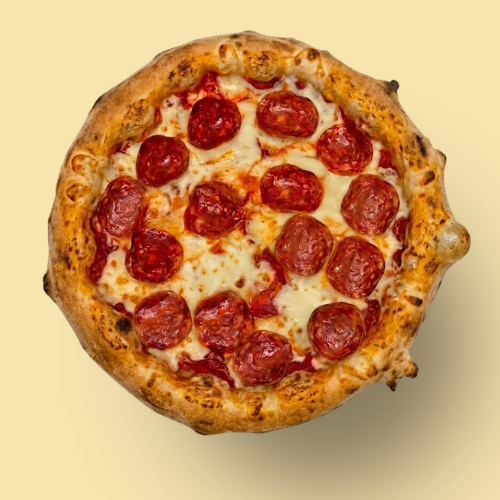
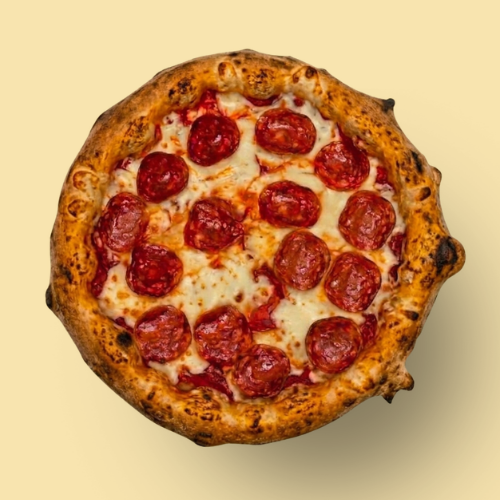
modifico fotos

diff --git a/index.html b/index.html
@@ -74,20 +74,20 @@
       </div>
 
       <div class="pizza-card">
-        <div class="card-img"><img src="./img/pizzas/margamejor.png" alt="Pizza Margherita" draggable="false"></div>
-        <div class="card-body">
-          <div class="card-top"><h4 class="card-name">MARGARITA</h4><!-- <span class="card-price">$10.999</span> --></div>
-          <p class="card-desc">Pomodoro, muzzarella, albahaca fresca, aceite de oliva</p>
-        </div>
-      </div>
-
-      <div class="pizza-card">
         <div class="card-img"><img src="./img/pizzas/pestocaramelizada.webp" alt="Pizza Speciale di Masa" draggable="false"></div>
         <div class="card-body">
           <div class="card-top"><h4 class="card-name">SPECIALE DI MASA</h4><!-- <span class="card-price">$12.000</span> --></div>
           <p class="card-desc">Pomodoro, muzzarella, cebolla caramelizada, pesto fresco</p>
         </div>
       </div>
+
+            <div class="pizza-card">
+        <div class="card-img"><img src="./img/pizzas/albahaca.png" alt="Pizza Margherita" draggable="false"></div>
+        <div class="card-body">
+          <div class="card-top"><h4 class="card-name">MARGARITA</h4><!-- <span class="card-price">$10.999</span> --></div>
+          <p class="card-desc">Pomodoro, muzzarella, albahaca fresca, aceite de oliva</p>
+        </div>
+      </div>  
 
       <div class="pizza-card">
         <div class="card-img"><img src="./img/pizzas/cebolla.jpeg" alt="Pizza Fugassa" draggable="false"></div>
